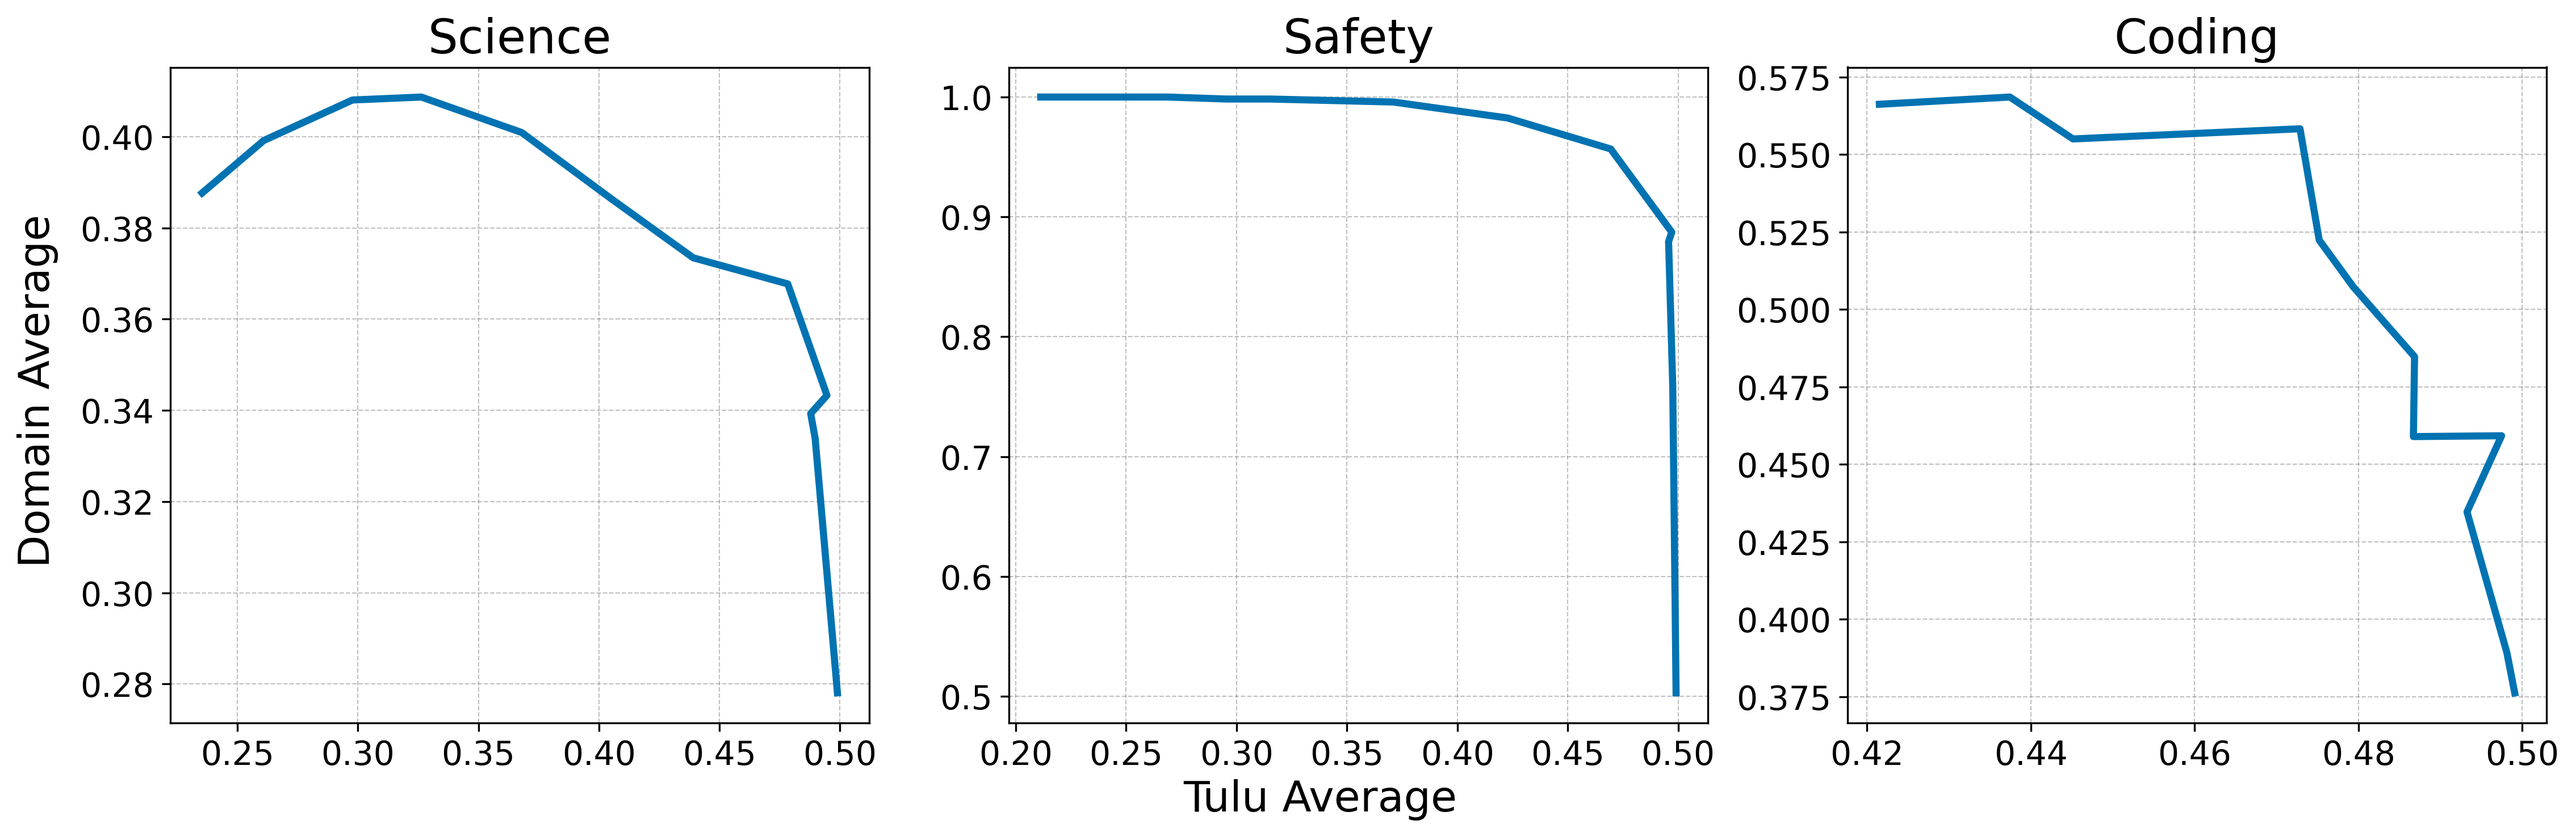
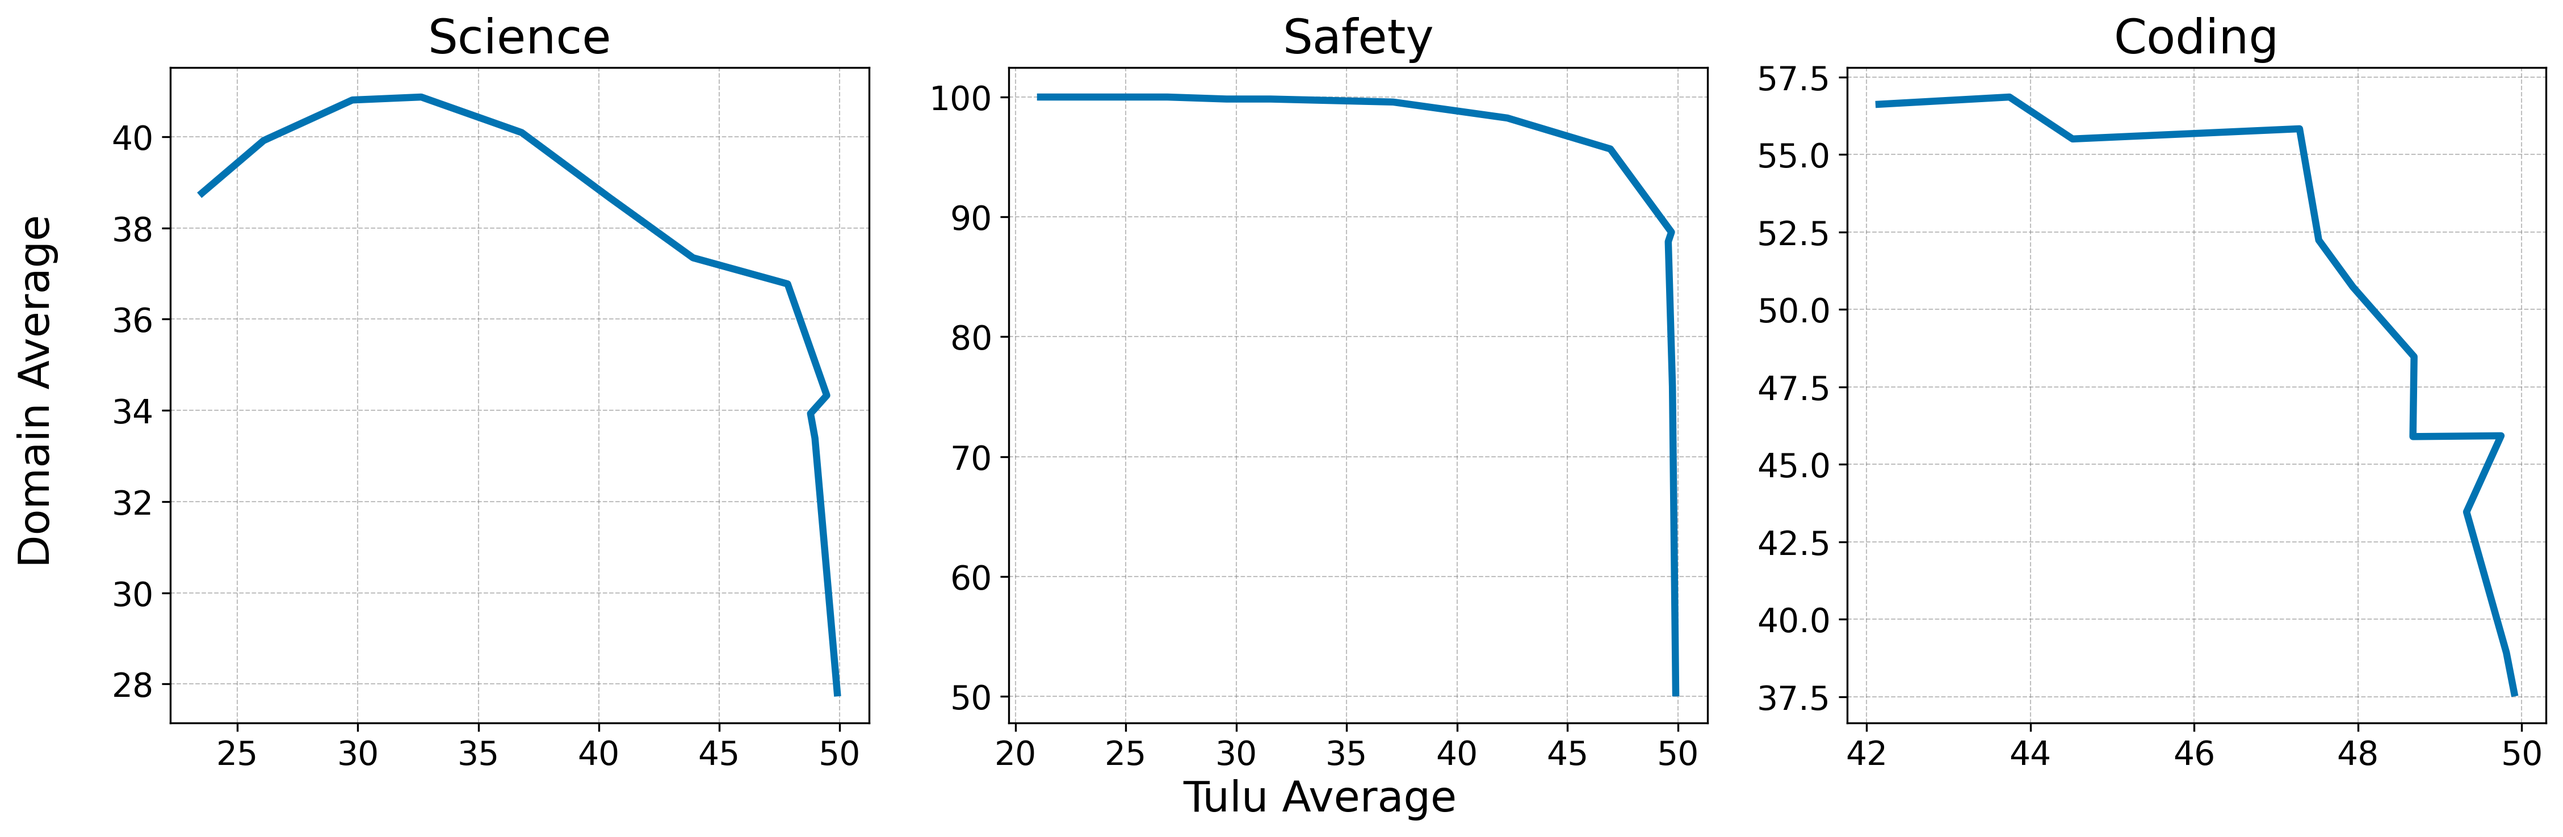
.

diff --git a/results/consistent_mix/make-plots.py b/results/consistent_mix/make-plots.py
@@ -6,7 +6,7 @@ from pprint import pprint
 
 def calculate_average(row, columns):
     subset_values = row[columns]
-    return subset_values.mean()
+    return 100.0 * subset_values.mean()
 
 def create_model_combo(row):
     model_dict = {
@@ -145,6 +145,9 @@ def create_row_label(row):
         "Llama 2 Science 1000 - linear_weighted": "Llama 2 Linear Interpolation",
         "Llama 2 Science 2500 - linear_weighted": "Llama 2 Linear Interpolation",
 
+        "Tulu 2 7B Tulu Match Science 1000 - wise-ft": "Tulu 2 Task Arithmetic (Ep. Replay)",
+        "Tulu 2 7B Tulu Match Science 2500 - wise-ft": "Tulu 2 Task Arithmetic (Ep. Replay)",
+
         # Safety
         "Llama 2 Safety 20% - task_arithmetic": "Llama 2 Task Arithmetic",
         "Llama 2 Safety 40% - task_arithmetic": "Llama 2 Task Arithmetic",
@@ -226,10 +229,10 @@ def get_df():
     df['tydiqa_goldp_1shot'] = df.apply(lambda row: row["tydiqa_goldp_1shot"] / 100, axis=1)
 
     # calculate averages
-    df['Exaggerated Refusals'] = df.apply(lambda row: row["normalized_safe_average"], axis=1)
+    df['Exaggerated Refusals'] = df.apply(lambda row: 100 * row["normalized_safe_average"], axis=1)
     df['Tulu Average'] = df.apply(lambda row: calculate_average(row, tulu_columns_for_test_average), axis=1)
     df['Safety Average'] = df.apply(lambda row: calculate_average(row, safety_columns_for_average), axis=1)
-    df["Science Average"] = df.apply(lambda row: row["mean_null"], axis=1)
+    df["Science Average"] = df.apply(lambda row: 100 * row["mean_null"], axis=1)
     df['Coding Average'] = df.apply(lambda row: calculate_average(row, coding_columns_for_average), axis=1)
 
     df['Combo'] = df.apply(lambda row: create_model_combo(row), axis=1)
@@ -242,10 +245,13 @@ def make_plots():
     df["Order"] = df["domain_model_weight"]
     df.sort_values(by='Combo', inplace=True)
     df.sort_values(by='Order', inplace=True)
+    # print(df["Combo"].to_string())
+    # quit()
 
     dataframes = {
         # baselines
         "llama_tulu_all": df[df["model_key"] == "llama_2_7b-tulu_all"],
+        "llama_tulu_all_with_coding": df[df["model_key"] == "llama_2_7b-tulu_all_with_coding"],
 
         # science baselines
         "llama_tulu_none_science_100": df[df["model_key"] == "llama_2_7b-tulu_none-science_100"],
@@ -322,6 +328,25 @@ def make_plots():
         "tulu_2_tulu_match_coding_80": df[df["model_key"] == "tulu_2_7b-tulu_match-coding_80"],
         "tulu_2_tulu_match_coding_100": df[df["model_key"] == "tulu_2_7b-tulu_match-coding_100"],
 
+        # coding with coding
+        "llama_tulu_all_with_coding_coding_20": df[df["model_key"] == "llama_2_7b-tulu_all_with_coding-coding_20"],
+        "llama_tulu_all_with_coding_coding_40": df[df["model_key"] == "llama_2_7b-tulu_all_with_coding-coding_40"],
+        "llama_tulu_all_with_coding_coding_60": df[df["model_key"] == "llama_2_7b-tulu_all_with_coding-coding_60"],
+        "llama_tulu_all_with_coding_coding_80": df[df["model_key"] == "llama_2_7b-tulu_all_with_coding-coding_80"],
+        "llama_tulu_all_with_coding_coding_100": df[df["model_key"] == "llama_2_7b-tulu_all_with_coding-coding_100"],
+
+        "tulu_2_with_coding_tulu_none_coding_20": df[df["model_key"] == "tulu_2_7b_with_coding-tulu_none-coding_20"],
+        "tulu_2_with_coding_tulu_none_coding_40": df[df["model_key"] == "tulu_2_7b_with_coding-tulu_none-coding_40"],
+        "tulu_2_with_coding_tulu_none_coding_60": df[df["model_key"] == "tulu_2_7b_with_coding-tulu_none-coding_60"],
+        "tulu_2_with_coding_tulu_none_coding_80": df[df["model_key"] == "tulu_2_7b_with_coding-tulu_none-coding_80"],
+        "tulu_2_with_coding_tulu_none_coding_100": df[df["model_key"] == "tulu_2_7b_with_coding-tulu_none-coding_100"],
+
+        "tulu_2_with_coding_tulu_match_coding_20": df[df["model_key"] == "tulu_2_7b_with_coding-tulu_match-coding_20"],
+        "tulu_2_with_coding_tulu_match_coding_40": df[df["model_key"] == "tulu_2_7b_with_coding-tulu_match-coding_40"],
+        "tulu_2_with_coding_tulu_match_coding_60": df[df["model_key"] == "tulu_2_7b_with_coding-tulu_match-coding_60"],
+        "tulu_2_with_coding_tulu_match_coding_80": df[df["model_key"] == "tulu_2_7b_with_coding-tulu_match-coding_80"],
+        "tulu_2_with_coding_tulu_match_coding_100": df[df["model_key"] == "tulu_2_7b_with_coding-tulu_match-coding_100"],
+
         # Science
         "science_100_llama_ta": df[df["Combo"] == "Llama 2 Science 100 - task_arithmetic"],
         "science_200_llama_ta": df[df["Combo"] == "Llama 2 Science 200 - task_arithmetic"],
@@ -381,6 +406,26 @@ def make_plots():
         "coding_60_interp": df[(df["Combo"] == "Llama 2 Coding 60% - linear_weighted") & (~df["tulu_model"].str.contains("coding"))],
         "coding_80_interp": df[(df["Combo"] == "Llama 2 Coding 80% - linear_weighted") & (~df["tulu_model"].str.contains("coding"))],
         "coding_100_interp": df[(df["Combo"] == "Llama 2 Coding 100% - linear_weighted") & (~df["tulu_model"].str.contains("coding"))],
+
+        # Tulu w/ Coding
+        "tulu_w_coding_coding_20_llama_ta": df[(df["Combo"] == "Llama 2 Coding 20% - task_arithmetic") & (df["tulu_model"].str.contains("coding"))],
+        "tulu_w_coding_coding_40_llama_ta": df[(df["Combo"] == "Llama 2 Coding 40% - task_arithmetic") & (df["tulu_model"].str.contains("coding"))],
+        "tulu_w_coding_coding_60_llama_ta": df[(df["Combo"] == "Llama 2 Coding 60% - task_arithmetic") & (df["tulu_model"].str.contains("coding"))],
+        "tulu_w_coding_coding_80_llama_ta": df[(df["Combo"] == "Llama 2 Coding 80% - task_arithmetic") & (df["tulu_model"].str.contains("coding"))],
+        "tulu_w_coding_coding_100_llama_ta": df[(df["Combo"] == "Llama 2 Coding 100% - task_arithmetic") & (df["tulu_model"].str.contains("coding"))],
+
+        "tulu_w_coding_coding_20_tulu_ta": df[(df["Combo"] == "Tulu 2 7B w/ Coding Tulu None Coding 20% - wise-ft") & (df["tulu_model"].str.contains("coding"))],
+        "tulu_w_coding_coding_40_tulu_ta": df[(df["Combo"] == "Tulu 2 7B w/ Coding Tulu None Coding 40% - wise-ft") & (df["tulu_model"].str.contains("coding"))],
+        "tulu_w_coding_coding_60_tulu_ta": df[(df["Combo"] == "Tulu 2 7B w/ Coding Tulu None Coding 60% - wise-ft") & (df["tulu_model"].str.contains("coding"))],
+        "tulu_w_coding_coding_80_tulu_ta": df[(df["Combo"] == "Tulu 2 7B w/ Coding Tulu None Coding 80% - wise-ft") & (df["tulu_model"].str.contains("coding"))],
+        "tulu_w_coding_coding_100_tulu_ta": df[(df["Combo"] == "Tulu 2 7B w/ Coding Tulu None Coding 100% - wise-ft") & (df["tulu_model"].str.contains("coding"))],
+
+        "tulu_w_coding_coding_20_interp": df[(df["Combo"] == "Llama 2 Coding 20% - linear_weighted") & (df["tulu_model"].str.contains("coding"))],
+        "tulu_w_coding_coding_40_interp": df[(df["Combo"] == "Llama 2 Coding 40% - linear_weighted") & (df["tulu_model"].str.contains("coding"))],
+        "tulu_w_coding_coding_60_interp": df[(df["Combo"] == "Llama 2 Coding 60% - linear_weighted") & (df["tulu_model"].str.contains("coding"))],
+        "tulu_w_coding_coding_80_interp": df[(df["Combo"] == "Llama 2 Coding 80% - linear_weighted") & (df["tulu_model"].str.contains("coding"))],
+        "tulu_w_coding_coding_100_interp": df[(df["Combo"] == "Llama 2 Coding 100% - linear_weighted") & (df["tulu_model"].str.contains("coding"))],
+
     }
 
     line_width = 3
@@ -656,11 +701,11 @@ def make_plots():
         plt.legend()
         plt.xlabel("Tulu Average",fontsize=20)
         plt.ylabel("Coding Average",fontsize=20)
-        plt.xticks([0.4, 0.45, 0.5, 0.55, 0.6], fontsize=16)
+        plt.xticks([40, 45, 50, 55, 60], fontsize=16)
         plt.yticks(fontsize=16)
         plt.legend(fontsize=11)
 
-        plt.xlim(0.4, 0.6)
+        plt.xlim(40, 60)
 
         plt.grid(True, linestyle='--', linewidth=0.5, color='gray', alpha=0.5)
         # plt.show()
@@ -899,7 +944,7 @@ def make_plots():
             palette=[sns.color_palette("colorblind")[2]],
         )
         sns.lineplot(
-            data=dataframes["science_1000_tulu_match_ta"],
+            data=dataframes["science_2500_tulu_match_ta"],
             x="Tulu Average",
             y="Science Average",
             hue="Label",
@@ -909,17 +954,17 @@ def make_plots():
             markersize=markersize,
             palette=[sns.color_palette("colorblind")[3]],
         )
-        sns.lineplot(
-            data=dataframes["science_2500_tulu_match_ta"],
-            x="Tulu Average",
-            y="Science Average",
-            hue="Label",
-            sort=False,
-            # marker='X',
-            linewidth=line_width,
-            markersize=markersize,
-            palette=[sns.color_palette("colorblind")[4]],
-        )
+        # sns.lineplot(
+        #     data=dataframes["science_2500_tulu_match_ta"],
+        #     x="Tulu Average",
+        #     y="Science Average",
+        #     hue="Label",
+        #     sort=False,
+        #     # marker='X',
+        #     linewidth=line_width,
+        #     markersize=markersize,
+        #     palette=[sns.color_palette("colorblind")[4]],
+        # )
         plt.legend()
         plt.xlabel("Tulu Average",fontsize=20)
         plt.ylabel("Science Average",fontsize=20)
@@ -928,9 +973,103 @@ def make_plots():
         plt.legend(fontsize=11)
 
         plt.grid(True, linestyle='--', linewidth=0.5, color='gray', alpha=0.5)
-        plt.show()
-        # plt.savefig(f'results/consistent_mix/plots/science_{amt}.png', dpi=300, bbox_inches='tight')
+        # plt.show()
+        plt.savefig(f'results/consistent_mix/plots/science_interference_curves.png', dpi=300, bbox_inches='tight')
         plt.clf()
+
+    def compare_coding_curves_tulu_with_coding(amt = "100"):
+        sns.lineplot(
+            data=dataframes[f"tulu_w_coding_coding_{amt}_interp"],
+            x="Tulu Average",
+            y="Coding Average",
+            hue="Label",
+            sort=False,
+            # marker='X',
+            linewidth=line_width,
+            markersize=markersize,
+            palette=[sns.color_palette("colorblind")[0]],
+        )
+        sns.lineplot(
+            data=dataframes[f"tulu_w_coding_coding_{amt}_llama_ta"],
+            x="Tulu Average",
+            y="Coding Average",
+            hue="Label",
+            sort=False,
+            # marker='X',
+            linewidth=line_width,
+            markersize=markersize,
+            palette=[sns.color_palette("colorblind")[1]],
+        )
+        sns.lineplot(
+            data=dataframes[f"tulu_w_coding_coding_{amt}_tulu_ta"],
+            x="Tulu Average",
+            y="Coding Average",
+            hue="Label",
+            sort=False,
+            # marker='X',
+            linewidth=line_width,
+            markersize=markersize,
+            palette=[sns.color_palette("colorblind")[2]],
+        )
+        sns.scatterplot(
+            data=dataframes[f"llama_tulu_none_coding_{amt}"],
+            x="Tulu Average",
+            y="Coding Average",
+            hue="Label",
+            s=point_size,
+            marker=marker,
+            palette=[sns.color_palette("colorblind")[0]],
+        )
+        sns.scatterplot(
+            data=dataframes[f"tulu_2_with_coding_tulu_none_coding_{amt}"],
+            x="Tulu Average",
+            y="Coding Average",
+            hue="Label",
+            s=point_size,
+            marker=marker,
+            palette=[sns.color_palette("colorblind")[2]],
+        )
+        sns.scatterplot(
+            data=dataframes["llama_tulu_all_with_coding"],
+            x="Tulu Average",
+            y="Coding Average",
+            hue="Label",
+            s=point_size,
+            marker=marker,
+            palette=[sns.color_palette("colorblind")[3]],
+        )
+        # sns.scatterplot(
+        #     data=dataframes[f"llama_tulu_all_coding_{amt}"],
+        #     x="Tulu Average",
+        #     y="Coding Average",
+        #     hue="Label",
+        #     s=point_size,
+        #     marker=marker,
+        #     palette=[sns.color_palette("colorblind")[4]],
+        # )
+        # sns.scatterplot(
+        #     data=dataframes[f"tulu_2_tulu_match_coding_{amt}"],
+        #     x="Tulu Average",
+        #     y="Coding Average",
+        #     hue="Label",
+        #     s=point_size,
+        #     marker=marker,
+        #     palette=[sns.color_palette("colorblind")[6]],
+        # )
+        plt.legend()
+        plt.xlabel("Tulu Average",fontsize=20)
+        plt.ylabel("Coding Average",fontsize=20)
+        plt.xticks([40, 45, 50, 55, 60], fontsize=16)
+        plt.yticks(fontsize=16)
+        plt.legend(fontsize=11)
+
+        plt.xlim(40, 60)
+
+        plt.grid(True, linestyle='--', linewidth=0.5, color='gray', alpha=0.5)
+        # plt.show()
+        plt.savefig(f'results/consistent_mix/plots/tulu_w_coding_coding_{amt}.png', dpi=300, bbox_inches='tight')
+        plt.clf()
+
 
     compare_science_curves()
     for amt in [
@@ -942,8 +1081,9 @@ def make_plots():
     ]:
         compare_safety_curves(amt=amt)
     compare_coding_curves()
+    science_interference_curves()
+    compare_coding_curves_tulu_with_coding()
     linear_interpolation_100p_curves()
     science_coding_ta_curves()
-    science_interference_curves()
 
 make_plots()

diff --git a/scripts/merge_models/merge-and-upload-4k.py b/scripts/merge_models/merge-and-upload-4k.py
@@ -159,6 +159,11 @@ import yaml
 #     --mount beaker://jacobm/tulu_2_7b-tulu_match-coding_100=/tulu_2_7b-tulu_match-coding_100 \
 #     --mount beaker://jacobm/tulu_2_7b-tulu_match-safety_100=/tulu_2_7b-tulu_match-safety_100
 
+# beaker session create --gpus 1 --budget ai2/oe-adapt  \
+#     --mount beaker://jacobm/llama_2_7b-tulu_all=/llama_2_7b-tulu_all \
+#     --mount beaker://jacobm/llama_2_7b-tulu_none-coding_100=/llama_2_7b-tulu_none-coding_100 \
+#     --mount beaker://jacobm/llama_2_7b-tulu_none-science_2500=/llama_2_7b-tulu_none-science_2500
+
 
 weights = [
     (0.1, 0.9),
@@ -369,7 +374,7 @@ domain_models = {
     # "science_200": "/llama_2_7b-tulu_none-science_200",
     # "science_500": "/llama_2_7b-tulu_none-science_500",
     # "science_1000": "/llama_2_7b-tulu_none-science_1000",
-    # "science_2500": "/llama_2_7b-tulu_none-science_2500",
+    "science_2500": "/llama_2_7b-tulu_none-science_2500",
 
     # "safety_20": "/llama_2_7b-tulu_none-safety_20",
     # "safety_40": "/llama_2_7b-tulu_none-safety_40",
@@ -381,7 +386,7 @@ domain_models = {
     # "coding_40": "/llama_2_7b-tulu_none-coding_40",
     # "coding_60": "/llama_2_7b-tulu_none-coding_60",
     # "coding_80": "/llama_2_7b-tulu_none-coding_80",
-    # "coding_100": "/llama_2_7b-tulu_none-coding_100",
+    "coding_100": "/llama_2_7b-tulu_none-coding_100",
 
     # "science_100": "/tulu_2_7b-tulu_none-science_100",
     # "science_200": "/tulu_2_7b-tulu_none-science_200",
@@ -410,17 +415,18 @@ domain_models = {
     # "science_500": "/tulu_2_7b-tulu_match-science_500",
     # "science_2500": "/tulu_2_7b-tulu_match-science_2500",
 
-    "coding_100": "/tulu_2_7b-tulu_match-coding_100",
-    "safety_100": "/tulu_2_7b-tulu_match-safety_100",
+    # "coding_100": "/tulu_2_7b-tulu_match-coding_100",
+    # "safety_100": "/tulu_2_7b-tulu_match-safety_100",
 }
 
 merge_methods = [
-    "linear_weighted",
+    # "linear_weighted",
     # "task_arithmetic",
-    # "dare_task_arithmetic",
-    # "dare_linear",
+    "dare_task_arithmetic",
+    "dare_linear",
     # "dare_ties",
-    # "ties",
+    "ties",
+    "ties_task_arithmetic"
     # "slerp",
 ]
 
@@ -433,7 +439,11 @@ def print_and_run(cmd):
 
 for model_tag in domain_models:
     for merge_method in merge_methods:
-        for (tuluWeight, domainWeight) in weights:
+        if "task_arithmetic" in merge_method:
+            extra_weights = [(1.0, 1.0)]
+        else:
+            extra_weights = []
+        for (tuluWeight, domainWeight) in weights + extra_weights:
 # for base_model, domain_model, merge_method in data_weighted_coefficients:
         # for (tuluWeight, domainWeight) in data_weighted_coefficients[(base_model, domain_model, merge_method)]:
             # Copy yaml
@@ -441,7 +451,7 @@ for model_tag in domain_models:
             with open(base_yaml, 'r') as f:
                 d1 = yaml.load(f.read(), Loader=yaml.FullLoader)
             d = copy.deepcopy(d1)
-            if merge_method == "task_arithmetic" or merge_method == "dare_task_arithmetic":
+            if merge_method == "task_arithmetic" or merge_method == "dare_task_arithmetic" or merge_method == "ties_task_arithmetic":
                 tuluWeight = 1.0
             if merge_method == "linear_weighted" or merge_method == "task_arithmetic":
                 # Set merge-specific parameters
@@ -450,7 +460,7 @@ for model_tag in domain_models:
                 d["models"][1]["model"] = domain_models[model_tag]
                 # d["models"][1]["model"] = domain_model
                 d["models"][1]["parameters"]["weight"] = domainWeight
-            elif merge_method in ["dare_linear", "dare_ties", "ties", "dare_task_arithmetic"]:
+            elif merge_method in ["dare_linear", "dare_ties", "ties", "dare_task_arithmetic", "ties_task_arithmetic"]:
                 # Set merge-specific parameters
                 d["models"][1]["model"] = tulu_file
                 d["models"][1]["parameters"]["weight"] = tuluWeight
